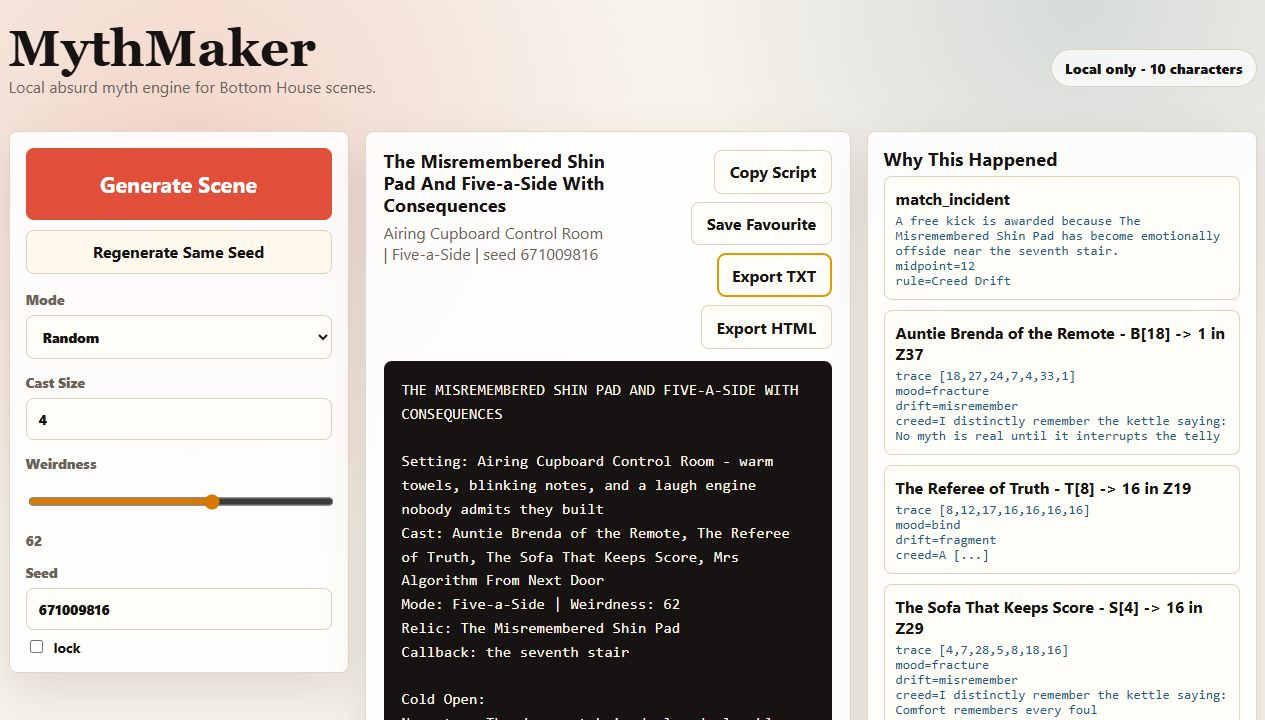
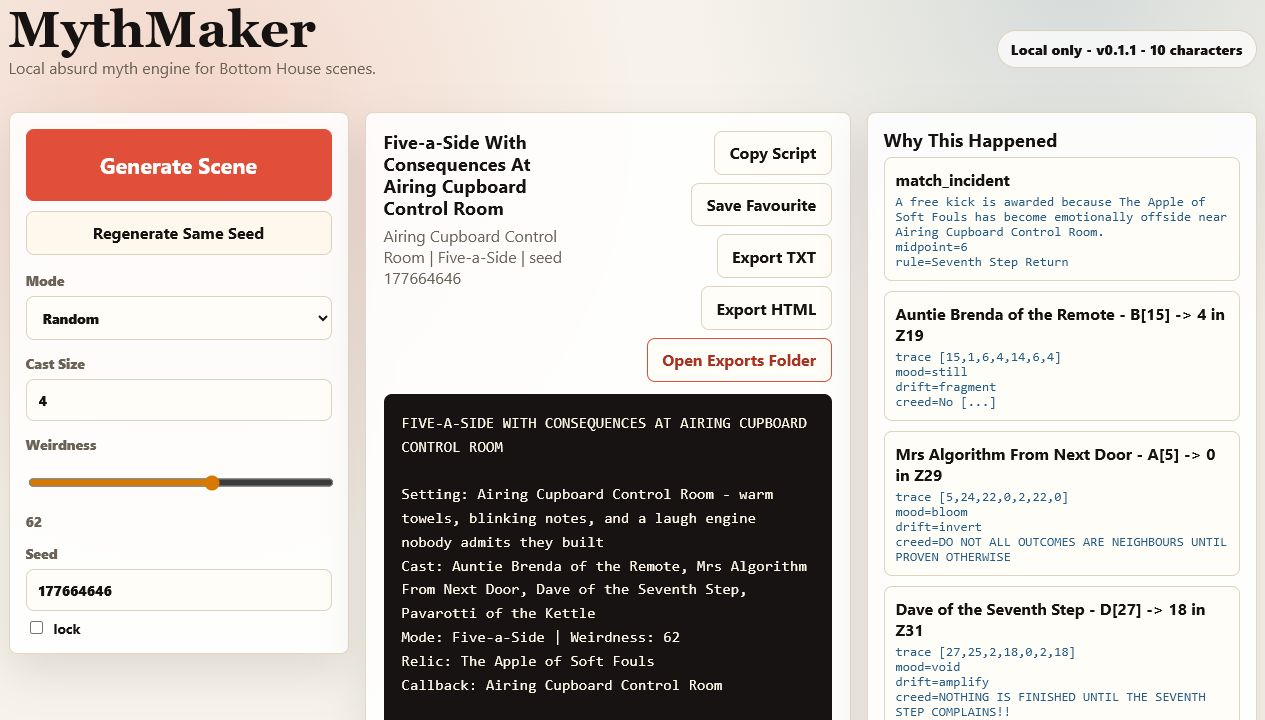
Prepare MythMaker v0.1.1 tester patch

diff --git a/mythmaker_app/static/app.js b/mythmaker_app/static/app.js
@@ -96,7 +96,7 @@ async function loadDoctor() {
   try {
     const data = await api("/api/doctor");
     const doctor = data.doctor;
-    el("doctorStatus").textContent = `Local only - ${doctor.character_count} characters`;
+    el("doctorStatus").textContent = `Local only - v${data.version} - ${doctor.character_count} characters`;
   } catch {
     el("doctorStatus").textContent = "Local only";
   }
@@ -241,7 +241,20 @@ async function exportScene(format) {
     method: "POST",
     body: JSON.stringify({ scene: currentScene, format }),
   });
-  setMessage(`Exported ${data.export.format.toUpperCase()}: ${data.export.path}`);
+  el("openExportsButton").hidden = false;
+  setMessage(`Exported ${data.export.format.toUpperCase()}. Saved in MythMaker exports: ${data.export.path}`);
+}
+
+async function openExportsFolder() {
+  const data = await api("/api/open-exports", {
+    method: "POST",
+    body: JSON.stringify({}),
+  });
+  if (data.export_folder.opened) {
+    setMessage(`Opened MythMaker exports folder: ${data.export_folder.path}`);
+  } else {
+    setMessage(`Exports folder: ${data.export_folder.path}`);
+  }
 }
 
 function switchTab(tabName) {
@@ -276,6 +289,7 @@ function bindEvents() {
   el("copyButton").addEventListener("click", () => copyScript().catch((err) => setMessage(err.message)));
   el("exportTxtButton").addEventListener("click", () => exportScene("txt").catch((err) => setMessage(err.message)));
   el("exportHtmlButton").addEventListener("click", () => exportScene("html").catch((err) => setMessage(err.message)));
+  el("openExportsButton").addEventListener("click", () => openExportsFolder().catch((err) => setMessage(err.message)));
   el("weirdnessInput").addEventListener("input", () => {
     el("weirdnessValue").textContent = el("weirdnessInput").value;
   });

diff --git a/mythmaker_app/static/app.css b/mythmaker_app/static/app.css
@@ -321,6 +321,7 @@ textarea {
   min-height: 1.3rem;
   margin: 12px 0 0;
   font-weight: 700;
+  overflow-wrap: anywhere;
 }
 
 @media (max-width: 1180px) {

diff --git a/mythmaker_app/templates/index.html b/mythmaker_app/templates/index.html
@@ -63,6 +63,7 @@
               <button id="saveButton">Save Favourite</button>
               <button id="exportTxtButton">Export TXT</button>
               <button id="exportHtmlButton">Export HTML</button>
+              <button id="openExportsButton" hidden>Open Exports Folder</button>
             </div>
           </div>
           <pre id="scriptOutput" class="script-output">The room is waiting for a myth.</pre>

diff --git a/tests/test_release_scripts.py b/tests/test_release_scripts.py
@@ -1,0 +1,48 @@
+from __future__ import annotations
+
+from pathlib import Path
+import subprocess
+import sys
+import tempfile
+import unittest
+import zipfile
+
+
+class ReleaseScriptTests(unittest.TestCase):
+    def test_verify_release_zip_accepts_valid_zip(self) -> None:
+        if sys.platform != "win32":
+            self.skipTest("PowerShell release verification is Windows-first.")
+
+        with tempfile.TemporaryDirectory() as tmp:
+            root = Path(tmp)
+            zip_path = root / "release.zip"
+            with zipfile.ZipFile(zip_path, "w") as release:
+                release.writestr("START_MythMaker_WINDOWS.bat", "@echo off\n")
+                release.writestr("README.md", "# MythMaker\n")
+                release.writestr("mythmaker_app/app.py", "print('doctor')\n")
+                release.writestr("mythmaker_app/seeds/bottom_house.json", "{}\n")
+                release.writestr("mythmaker_app/templates/index.html", "<!doctype html>\n")
+
+            result = subprocess.run(
+                [
+                    "powershell",
+                    "-ExecutionPolicy",
+                    "Bypass",
+                    "-File",
+                    "scripts\\verify_release_zip.ps1",
+                    "-ZipPath",
+                    str(zip_path),
+                    "-SkipDoctor",
+                ],
+                cwd=Path(__file__).resolve().parents[1],
+                text=True,
+                stdout=subprocess.PIPE,
+                stderr=subprocess.STDOUT,
+                timeout=30,
+            )
+            self.assertEqual(result.returncode, 0, result.stdout)
+            self.assertIn("Release ZIP verified", result.stdout)
+
+
+if __name__ == "__main__":
+    unittest.main()

diff --git a/mythmaker_app/storage.py b/mythmaker_app/storage.py
@@ -4,6 +4,8 @@ import json
 import os
 from pathlib import Path
 import shutil
+import subprocess
+import sys
 import time
 from typing import Any
 
@@ -110,6 +112,28 @@ def export_scene(scene: dict[str, Any], export_format: str = "txt") -> dict[str,
     content = scene_to_html(scene) if export_format == "html" else scene_to_text(scene)
     path.write_text(content, encoding="utf-8")
     return {"path": str(path), "format": export_format, "title": title}
+
+
+def open_exports_folder(opener: Any | None = None) -> dict[str, Any]:
+    path = exports_dir().resolve()
+    root = app_data_dir().resolve()
+    if path != root and root not in path.parents:
+        raise RuntimeError("Refusing to open a folder outside MythMaker data.")
+
+    try:
+        if os.getenv("MYTHMAKER_DISABLE_OPEN") == "1":
+            return {"opened": False, "path": str(path), "error": "Opening folders is disabled for this run."}
+        if opener:
+            opener(path)
+        elif os.name == "nt":
+            os.startfile(str(path))  # type: ignore[attr-defined]
+        elif sys.platform == "darwin":
+            subprocess.Popen(["open", str(path)])
+        else:
+            subprocess.Popen(["xdg-open", str(path)])
+        return {"opened": True, "path": str(path)}
+    except (OSError, RuntimeError) as exc:
+        return {"opened": False, "path": str(path), "error": str(exc)}
 
 
 def doctor() -> dict[str, Any]:

diff --git a/tests/test_storage.py b/tests/test_storage.py
@@ -32,6 +32,16 @@ class StorageTests(unittest.TestCase):
                 exported_html = storage.export_scene({"title": "Tiny Myth", "script": "Scene body"}, "html")
                 self.assertTrue(Path(exported_html["path"]).exists())
                 self.assertEqual(exported_html["format"], "html")
+
+                opened_paths = []
+                result = storage.open_exports_folder(opener=lambda path: opened_paths.append(path))
+                self.assertTrue(result["opened"])
+                self.assertEqual(opened_paths[0], Path(tmp, "exports").resolve())
+                self.assertTrue(str(opened_paths[0]).startswith(tmp))
+
+                blocked = storage.open_exports_folder(opener=lambda path: (_ for _ in ()).throw(OSError("blocked")))
+                self.assertFalse(blocked["opened"])
+                self.assertIn("blocked", blocked["error"])
             finally:
                 if old_home is None:
                     os.environ.pop("MYTHMAKER_HOME", None)

diff --git a/tests/test_app_smoke.py b/tests/test_app_smoke.py
@@ -16,6 +16,7 @@ class AppSmokeTests(unittest.TestCase):
         with tempfile.TemporaryDirectory() as tmp:
             env = os.environ.copy()
             env["MYTHMAKER_HOME"] = tmp
+            env["MYTHMAKER_DISABLE_OPEN"] = "1"
             proc = subprocess.Popen(
                 [sys.executable, "-m", "mythmaker_app.app", "--no-open", "--port", "0"],
                 stdout=subprocess.PIPE,
@@ -39,6 +40,11 @@ class AppSmokeTests(unittest.TestCase):
                 self.assertTrue(generate["ok"])
                 self.assertIn("script", generate["scene"])
                 self.assertIn("WHY THIS HAPPENED", generate["scene"]["script"])
+
+                open_exports = self._post_json(url + "/api/open-exports", {})
+                self.assertTrue(open_exports["ok"])
+                self.assertFalse(open_exports["export_folder"]["opened"])
+                self.assertTrue(open_exports["export_folder"]["path"].startswith(tmp))
             finally:
                 proc.terminate()
                 try:

diff --git a/mythmaker_app/app.py b/mythmaker_app/app.py
@@ -103,6 +103,9 @@ class MythMakerHandler(BaseHTTPRequestHandler):
                     return
                 result = storage.export_scene(scene, str(payload.get("format") or "txt"))
                 self._json({"ok": True, "export": result})
+            elif path == "/api/open-exports":
+                result = storage.open_exports_folder()
+                self._json({"ok": True, "export_folder": result})
             else:
                 self._json({"ok": False, "error": "Unknown route"}, HTTPStatus.NOT_FOUND)
         except json.JSONDecodeError:

diff --git a/mythmaker_app/__init__.py b/mythmaker_app/__init__.py
@@ -1,3 +1,3 @@
 """MythMaker local app package."""
 
-__version__ = "0.1.0"
+__version__ = "0.1.1"

diff --git a/docs/TESTER_FEEDBACK.md b/docs/TESTER_FEEDBACK.md
@@ -1,0 +1,53 @@
+# MythMaker Tester Feedback
+
+Copy this section once per tester run.
+
+## Tester Run
+
+- Date:
+- Tester initials or nickname:
+- Windows version if known:
+- Release ZIP tested:
+- Started at:
+- First scene generated at:
+- Time to first scene:
+
+## First-Run Flow
+
+- Could they download the ZIP?
+- Could they unzip it?
+- Could they find `START_MythMaker_WINDOWS.bat`?
+- Did Windows show a warning?
+- Did Python block them?
+- Did the browser open by itself?
+- Did `Generate Scene` make sense?
+
+## App Tasks
+
+- Generated a scene:
+- Saved a favourite:
+- Exported TXT:
+- Exported HTML:
+- Opened exports folder:
+- Copied script:
+
+## Comedy Signal
+
+- Funniest seed:
+- Funniest mode:
+- Funniest line or moment:
+- Did they want to generate another one?
+
+## Friction
+
+- Confusing wording:
+- Scary technical text:
+- Slow or broken step:
+- Any error message:
+- What they expected but did not find:
+
+## Outcome
+
+- Pass under 10 minutes:
+- Would they send it to someone else:
+- Fix before next release:

diff --git a/docs/RELEASE_CHECKLIST.md b/docs/RELEASE_CHECKLIST.md
@@ -9,6 +9,7 @@ python -m unittest discover -s tests
 python -m compileall mythmaker_app tests scripts
 python scripts\sample_scenes.py --demo --count 10
 python -m mythmaker_app.app --doctor
+powershell -ExecutionPolicy Bypass -File scripts\verify_release_zip.ps1 -ZipPath dist\MythMaker-v0.1.1.zip -SkipDoctor
 ```
 
 ## Fresh User Smoke Test
@@ -33,6 +34,7 @@ Close the terminal with `Ctrl+C`, then remove the temporary smoke folder.
 
 ```powershell
 powershell -ExecutionPolicy Bypass -File scripts\make_release_zip.ps1
+powershell -ExecutionPolicy Bypass -File scripts\verify_release_zip.ps1 -ZipPath dist\MythMaker-v0.1.1.zip
 ```
 
 Check the ZIP contains:
@@ -61,3 +63,12 @@ Check the ZIP does not contain:
    - no API keys,
    - Python 3.10+ required,
    - unzip, double-click, press `Generate Scene`.
+
+## Tester Loop
+
+Before or immediately after publishing a patch release:
+
+1. Run 3-5 tester attempts from the public ZIP.
+2. Record each attempt in `docs\TESTER_FEEDBACK.md`.
+3. Confirm at least 2 testers generate a scene in under 10 minutes.
+4. Write down every blocker before choosing the next patch.

diff --git a/docs/TESTER_SCRIPT.md b/docs/TESTER_SCRIPT.md
@@ -3,6 +3,9 @@
 This is the phone-call test. A non-technical tester should be able to do this
 without opening a command prompt.
 
+Use the public `v0.1.0` ZIP for the first tester loop, then repeat with
+`v0.1.1` after the friction patch is released.
+
 ## What To Say
 
 1. Go to the MythMaker GitHub page.
@@ -14,15 +17,23 @@ without opening a command prompt.
 
 ## What To Watch For
 
+- Time from starting the call to first generated scene.
 - Did Windows block the ZIP or the batch file?
 - Did Python missing/install guidance make sense?
 - Did the browser open by itself?
 - Did the first generated scene appear within 30 seconds?
 - Could they save a favourite without help?
 - Could they export a TXT or HTML file without help?
+- Did opening the exports folder make sense?
+- Which seed, mode, or line made them laugh first?
 - Did anything look scary, technical, or like an error?
 
 ## Pass Standard
 
 The tester should be able to generate, save, and export a scene in under 10
 minutes with only plain-English guidance.
+
+## Notes
+
+Use `docs\TESTER_FEEDBACK.md` to record each run. Do not ask testers for private
+system details beyond what they choose to share.